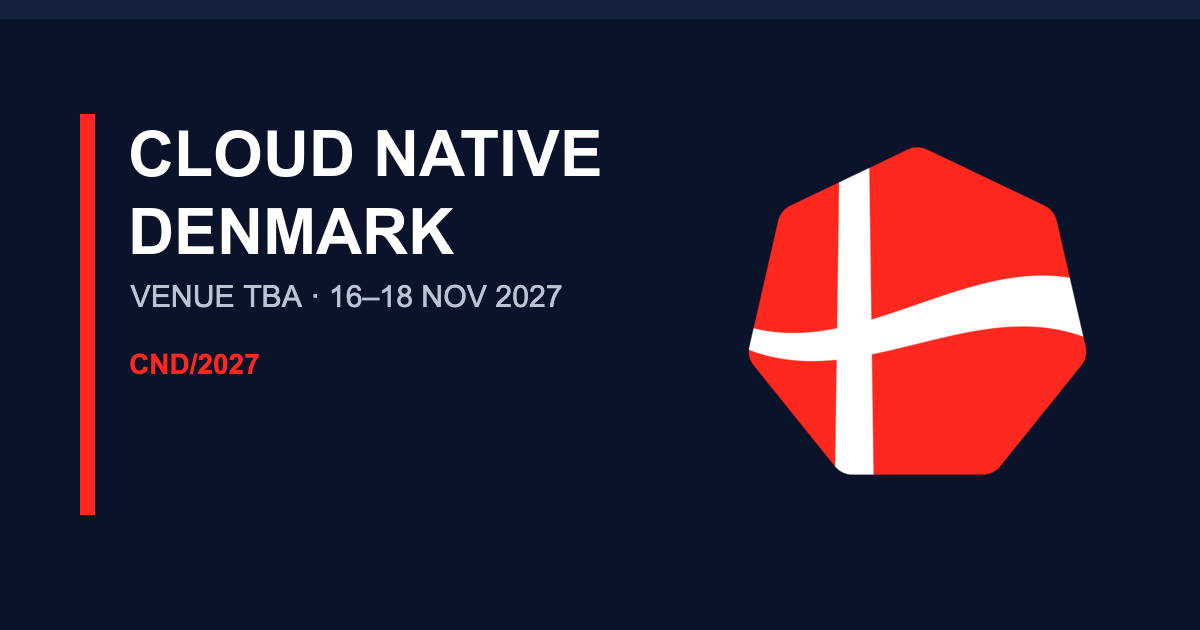
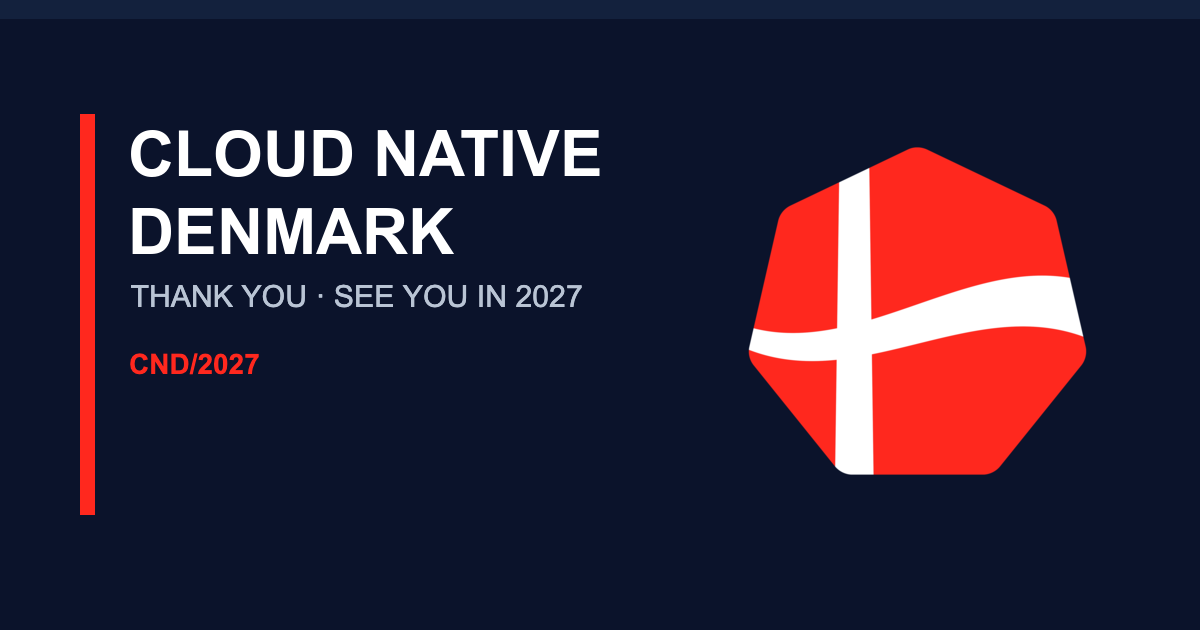
feat: Splash CTAs above the fold, 2027 year only
Thank-you and Early Blind Bird side by side with CTAs in one row, so
everything fits the first screen. Drop 2027 dates and venue (year
only), and point Contact us at sponsors, organizers and volunteers.

Changed region(s): [[0.0925, 0.4524, 0.4933, 0.5127]]

diff --git a/src/pages/index.tsx b/src/pages/index.tsx
@@ -21,19 +21,19 @@ const actions = [
   },
   {
     label: "📷 Photo gallery",
-    detail: "Find yourself in the CND/2026 photos.",
+    detail: "Find yourself in the photos.",
     href: photosUrl,
     external: true,
   },
   {
     label: "CND/2026 website",
-    detail: "Schedule, speakers and slides, archived.",
+    detail: "Schedule, speakers and slides.",
     href: siteConfig.previousEditionUrl,
     external: true,
   },
   {
     label: "Contact us",
-    detail: contactEmail,
+    detail: "Sponsor 2027, join the organizers or volunteer.",
     href: `mailto:${contactEmail}`,
     external: false,
   },
@@ -53,67 +53,69 @@ const IndexPage: React.FC = () => {
       >
         <div className="cnd-top-rule" />
         <div
-          className="pointer-events-none absolute hidden sm:block"
+          className="pointer-events-none absolute hidden lg:block"
           style={{
-            top: "-22%",
-            right: "-26%",
-            width: "min(70vw, 880px)",
+            top: "-30%",
+            right: "-22%",
+            width: "min(60vw, 820px)",
             filter: "drop-shadow(0 30px 60px rgba(224,19,42,0.18))",
           }}
           aria-hidden="true"
         >
           <CNDShape
-            size={880}
+            size={820}
             fill="var(--color-cnd-red)"
             style={{ width: "100%", height: "auto" }}
           />
         </div>
 
-        <div className="relative z-10 mx-auto max-w-[1280px] px-6 pt-14 pb-20 lg:px-12 lg:pt-20 lg:pb-24">
-          <div
-            className="eyebrow cnd-rise cnd-rise-1 mb-6 text-cnd-red"
-            style={{ letterSpacing: "0.18em" }}
-          >
-            CND/2026 · COPENHAGEN · 19–20 NOV
-          </div>
-          <h1
-            id="thank-you"
-            className="display cnd-rise cnd-rise-2 text-cnd-midnight"
-            style={{
-              fontSize: "clamp(56px, 12vw, 192px)",
-              lineHeight: 0.86,
-              letterSpacing: "-0.06em",
-              margin: 0,
-            }}
-          >
-            THANK
-            <br />
-            <span
-              style={{
-                WebkitTextStroke: "3px var(--color-cnd-midnight)",
-                color: "transparent",
-              }}
-            >
-              YOU.
-            </span>
-          </h1>
-          <p
-            className="cnd-rise cnd-rise-3 mt-8 max-w-xl text-cnd-slate"
-            style={{
-              fontSize: "clamp(17px, 1.4vw, 20px)",
-              lineHeight: 1.55,
-              fontWeight: 500,
-            }}
-          >
-            To every attendee, speaker, sponsor and volunteer: thank you for
-            making Cloud Native Denmark 2026. Let&apos;s do it again.
-          </p>
+        <div className="relative z-10 mx-auto max-w-[1280px] px-6 pt-8 pb-12 lg:px-12 lg:pt-14 lg:pb-16">
+          <div className="grid grid-cols-[minmax(0,1fr)] items-center gap-8 lg:grid-cols-[minmax(0,1fr)_minmax(0,26rem)] lg:gap-12">
+            <div>
+              <div
+                className="eyebrow cnd-rise cnd-rise-1 mb-4 text-cnd-red"
+                style={{ letterSpacing: "0.18em" }}
+              >
+                CND/2026 · COPENHAGEN · 19–20 NOV
+              </div>
+              <h1
+                id="thank-you"
+                className="display cnd-rise cnd-rise-2 text-cnd-midnight"
+                style={{
+                  fontSize: "clamp(52px, 9vw, 136px)",
+                  lineHeight: 0.88,
+                  letterSpacing: "-0.06em",
+                  margin: 0,
+                }}
+              >
+                THANK{" "}
+                <span
+                  style={{
+                    WebkitTextStroke: "3px var(--color-cnd-midnight)",
+                    color: "transparent",
+                  }}
+                >
+                  YOU.
+                </span>
+              </h1>
+              <p
+                className="cnd-rise cnd-rise-3 mt-5 max-w-xl text-cnd-slate"
+                style={{
+                  fontSize: "clamp(16px, 1.3vw, 19px)",
+                  lineHeight: 1.5,
+                  fontWeight: 500,
+                }}
+              >
+                To every attendee, speaker, sponsor and volunteer: thank you for
+                making Cloud Native Denmark 2026. Let&apos;s do it again in
+                2027.
+              </p>
+            </div>
 
-          <div className="cnd-rise cnd-rise-4 mt-12 grid max-w-5xl grid-cols-[minmax(0,1fr)] gap-6 lg:grid-cols-[minmax(0,1.1fr)_minmax(0,1fr)]">
-            <div className="relative flex flex-col rounded-2xl bg-cnd-midnight p-8 text-white shadow-[0_18px_40px_rgba(11,30,63,0.28)]">
+            <div className="cnd-rise cnd-rise-3 relative flex flex-col rounded-2xl bg-cnd-midnight p-6 text-white shadow-[0_18px_40px_rgba(11,30,63,0.28)] lg:p-8">
               {features.ticketSales && (
                 <span
-                  className="eyebrow absolute -top-3 left-8 flex items-center gap-2.5 rounded-full bg-cnd-red px-3.5 py-1.5 text-white shadow-[0_6px_16px_rgba(224,19,42,0.35)]"
+                  className="eyebrow absolute -top-3 left-6 flex items-center gap-2.5 rounded-full bg-cnd-red px-3.5 py-1.5 text-white shadow-[0_6px_16px_rgba(224,19,42,0.35)] lg:left-8"
                   style={{ fontSize: 10, letterSpacing: "0.2em" }}
                 >
                   <span
@@ -130,67 +132,66 @@ const IndexPage: React.FC = () => {
                 className="eyebrow mt-2"
                 style={{ color: "var(--color-cnd-coral)" }}
               >
-                ANNOUNCING CND/2027 · 16–18 NOV 2027
+                ANNOUNCING CND/2027
               </div>
               <h2
-                className="display mt-3"
-                style={{ fontSize: 28, letterSpacing: "-0.02em" }}
+                className="display mt-2"
+                style={{ fontSize: 26, letterSpacing: "-0.02em" }}
               >
                 Early Blind Bird tickets
               </h2>
-              <div className="mt-4 flex items-baseline gap-2">
+              <div className="mt-2 flex items-baseline gap-2">
                 <span
                   className="display"
-                  style={{ fontSize: 64, letterSpacing: "-0.03em" }}
+                  style={{ fontSize: 56, letterSpacing: "-0.03em" }}
                 >
                   999
                 </span>
                 <span className="eyebrow text-cnd-fog">DKK</span>
               </div>
-              <p className="mt-2 text-sm text-cnd-fog">
-                Venue and speakers to be announced. Includes 25% VAT;
-                Ticketbutler fee added at checkout.
+              <p className="mt-1 text-sm text-cnd-fog">
+                Includes 25% VAT; Ticketbutler fee added at checkout.
               </p>
               {features.ticketSales ? (
                 <a
                   href={earlyBlindBirdUrl}
                   {...externalProps}
-                  className={`btn-pill mt-8 self-start ${buttonVariants.primary}`}
+                  className={`btn-pill mt-6 self-start ${buttonVariants.primary}`}
                 >
                   Get Early Blind Bird →
                 </a>
               ) : (
-                <p className="eyebrow mt-8 text-cnd-fog">SOLD OUT</p>
+                <p className="eyebrow mt-6 text-cnd-fog">SOLD OUT</p>
               )}
             </div>
-
-            <ul className="grid grid-cols-[minmax(0,1fr)] gap-3 sm:grid-cols-2 lg:grid-cols-[minmax(0,1fr)]">
-              {actions.map((action) => (
-                <li key={action.label} className="min-w-0">
-                  <a
-                    href={action.href}
-                    {...(action.external ? externalProps : {})}
-                    className="group flex h-full items-center justify-between gap-4 rounded-2xl border-[1.5px] border-cnd-midnight/15 bg-white px-5 py-4 transition-colors hover:border-cnd-red"
-                  >
-                    <span className="min-w-0">
-                      <span className="block font-semibold text-cnd-midnight">
-                        {action.label}
-                      </span>
-                      <span className="block break-words text-sm text-cnd-slate">
-                        {action.detail}
-                      </span>
-                    </span>
-                    <span
-                      aria-hidden="true"
-                      className="text-cnd-red transition-transform group-hover:translate-x-1"
-                    >
-                      →
-                    </span>
-                  </a>
-                </li>
-              ))}
-            </ul>
           </div>
+
+          <ul className="cnd-rise cnd-rise-4 mt-8 grid grid-cols-[minmax(0,1fr)] gap-3 sm:grid-cols-2 lg:mt-10 lg:grid-cols-4">
+            {actions.map((action) => (
+              <li key={action.label} className="min-w-0">
+                <a
+                  href={action.href}
+                  {...(action.external ? externalProps : {})}
+                  className="group flex h-full items-center justify-between gap-4 rounded-2xl border-[1.5px] border-cnd-midnight/15 bg-white px-5 py-4 transition-colors hover:border-cnd-red"
+                >
+                  <span className="min-w-0">
+                    <span className="block font-semibold text-cnd-midnight">
+                      {action.label}
+                    </span>
+                    <span className="block break-words text-sm text-cnd-slate">
+                      {action.detail}
+                    </span>
+                  </span>
+                  <span
+                    aria-hidden="true"
+                    className="text-cnd-red transition-transform group-hover:translate-x-1"
+                  >
+                    →
+                  </span>
+                </a>
+              </li>
+            ))}
+          </ul>
         </div>
       </section>
     </>

diff --git a/src/pages/__tests__/home-splash.test.tsx b/src/pages/__tests__/home-splash.test.tsx
@@ -52,6 +52,7 @@ it("thanks attendees and sells 2027 Early Blind Bird tickets", () => {
   ).toBeVisible()
   expect(screen.getByText("999")).toBeVisible()
   expect(screen.getByText("LIMITED DROP")).toBeVisible()
+  expect(document.body).not.toHaveTextContent(/NOV 2027|16–18|TBA/)
   expectExternal(
     screen.getByRole("link", { name: "Get Early Blind Bird →" }),
     "https://cloudnativedenmark.ticketbutler.io/en/e/cloud-native-denmark-2027/"
@@ -90,6 +91,9 @@ it("links to feedback, photos, the 2026 archive and contact", () => {
     "mailto:contact@cloudnativedenmark.dk"
   )
   expect(contact).not.toHaveAttribute("target")
+  expect(contact).toHaveTextContent(
+    "Sponsor 2027, join the organizers or volunteer."
+  )
   expect(container.querySelector('a[href^="/schedule"]')).toBeNull()
 })
 

diff --git a/src/components/footer.tsx b/src/components/footer.tsx
@@ -30,7 +30,7 @@ const Footer = () => {
               className="eyebrow mb-3"
               style={{ color: "var(--color-cnd-coral)" }}
             >
-              CND/2027 · 16–18 NOV
+              CND/2027
             </div>
             <div
               className="display text-white"
@@ -136,7 +136,7 @@ const Footer = () => {
             className="eyebrow text-cnd-fog"
             style={{ letterSpacing: "0.2em" }}
           >
-            EDITION Nº 05 · NOVEMBER 16–18, 2027 · VENUE TBA
+            EDITION Nº 05 · SEE YOU IN 2027
           </span>
           <span
             className="eyebrow text-cnd-fog"
